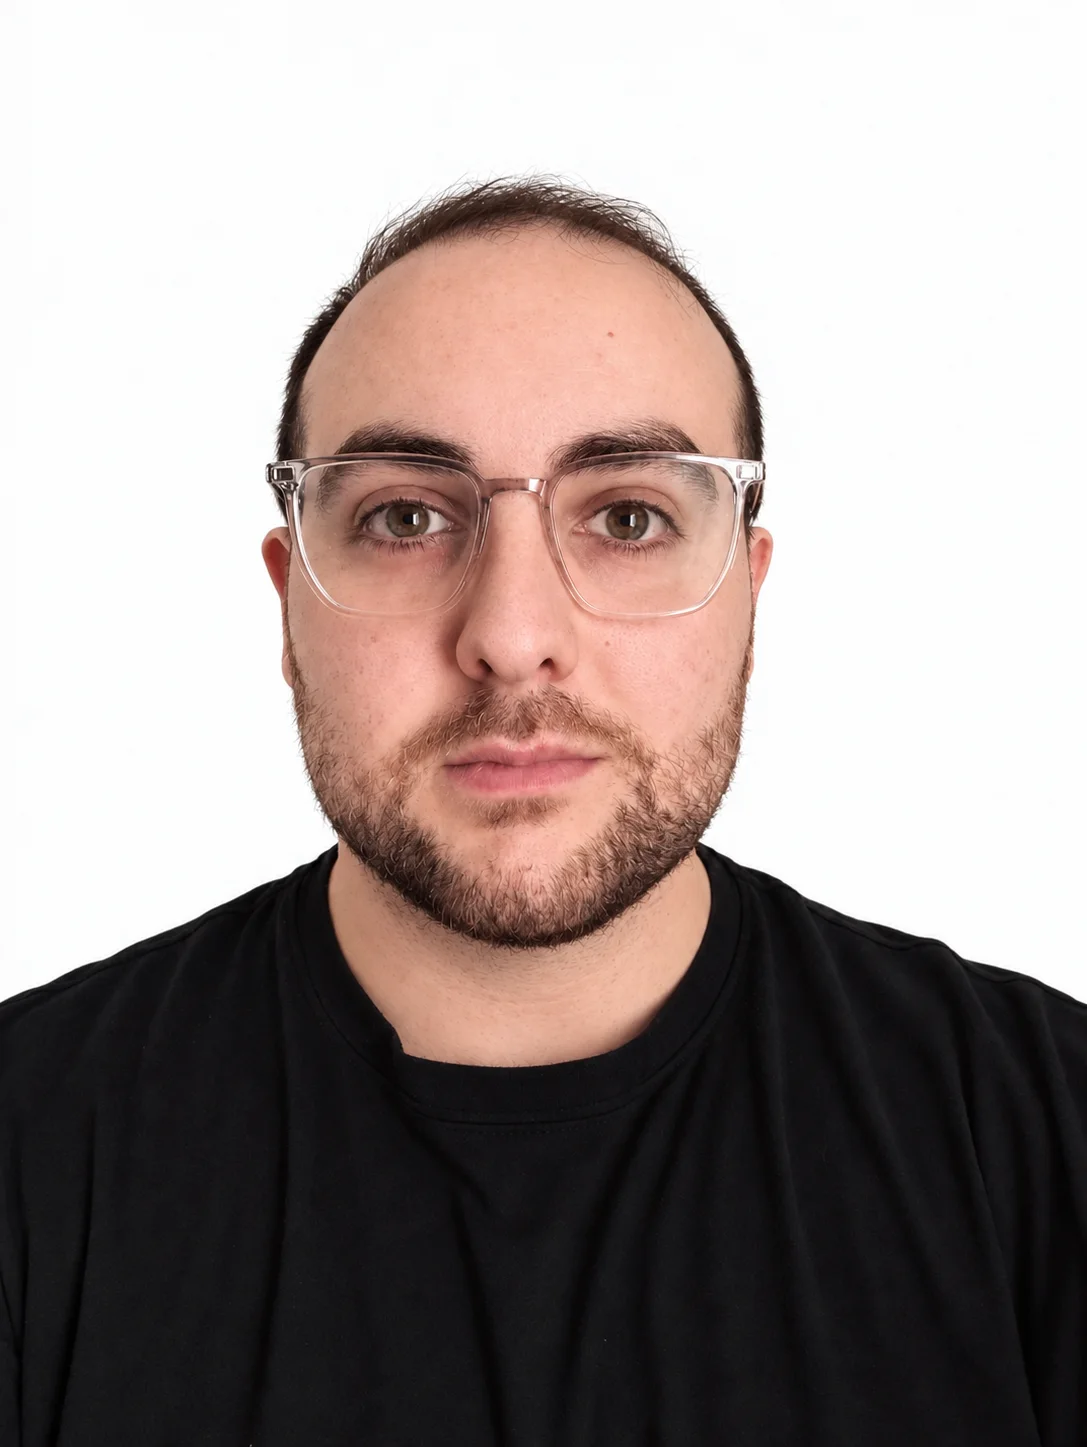
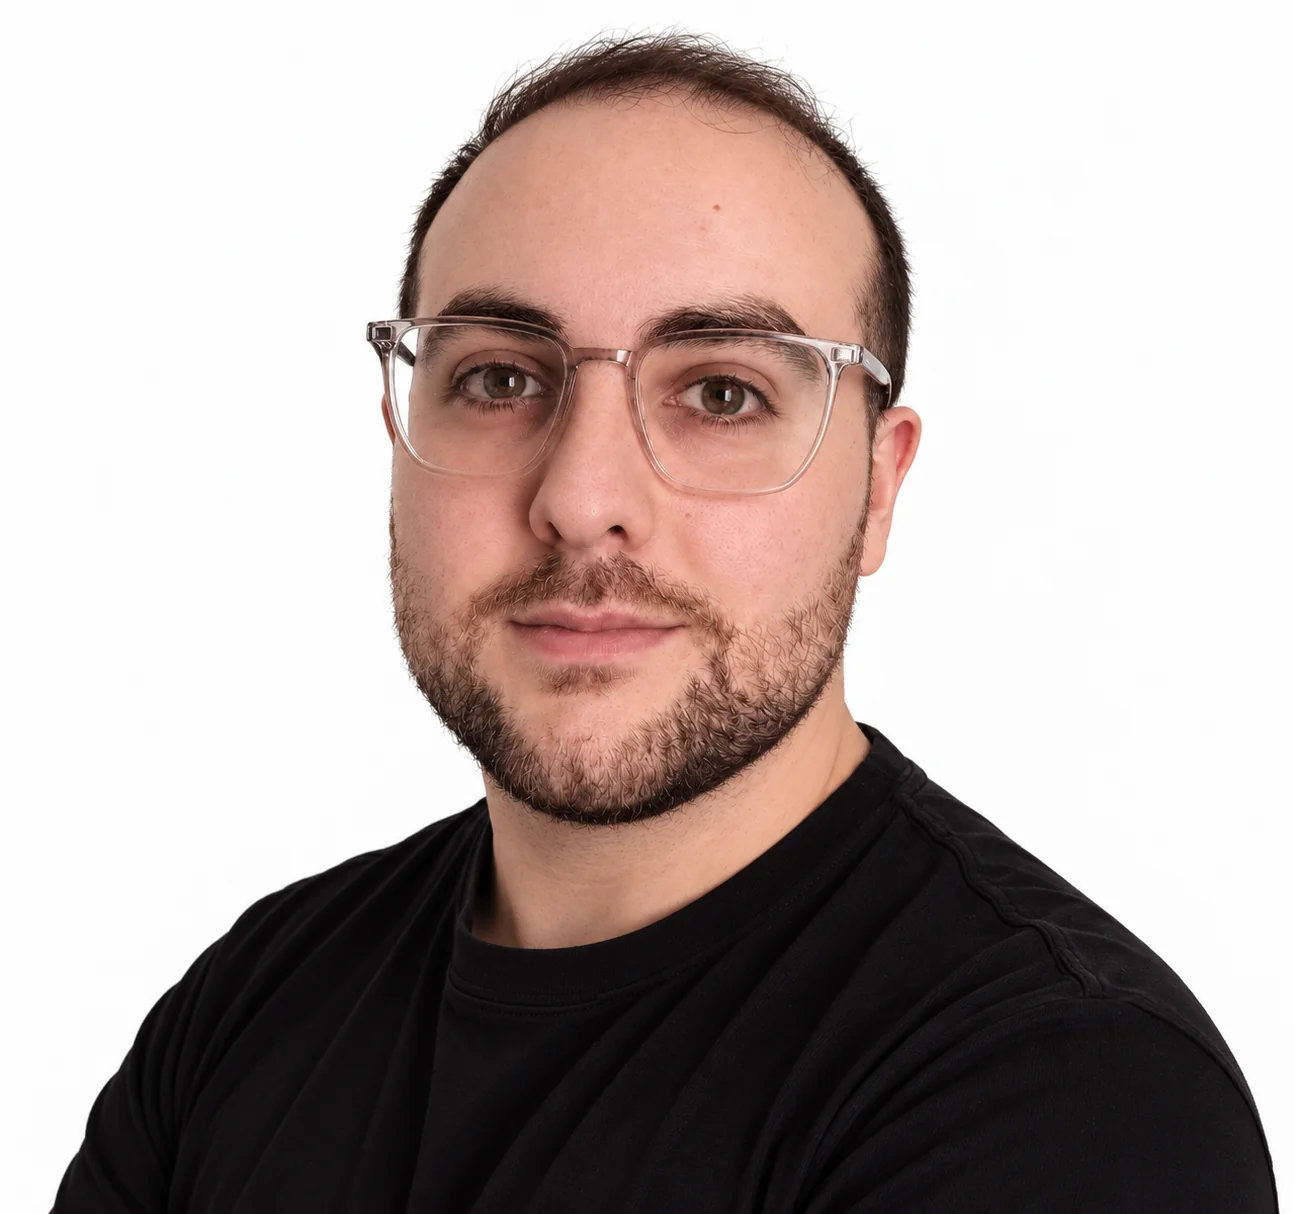
feat: nueva foto de portada en el hero

Changed region(s): [[0.0, 0.0, 1.0, 1.0]]

diff --git a/src/components/sections/Hero.jsx b/src/components/sections/Hero.jsx
@@ -30,8 +30,8 @@ const Hero = () => {
                 <img
                     src="/images/luciano-hero.webp"
                     alt=""
-                    width="1087"
-                    height="1447"
+                    width="1295"
+                    height="1214"
                     decoding="async"
                     fetchPriority="high"
                 />
